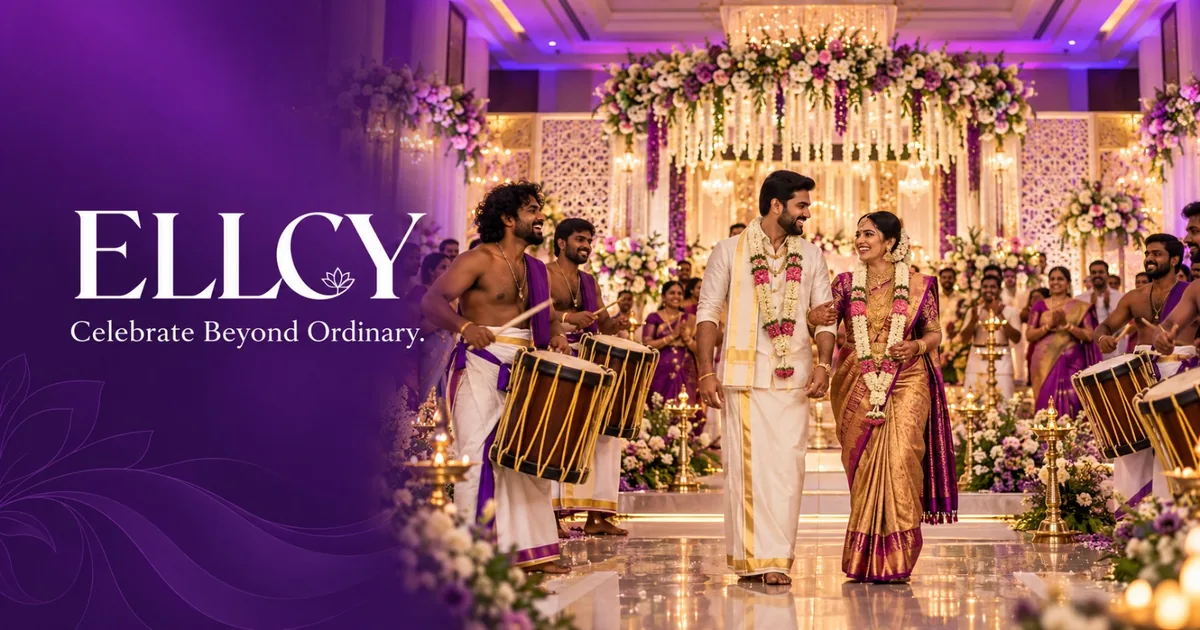
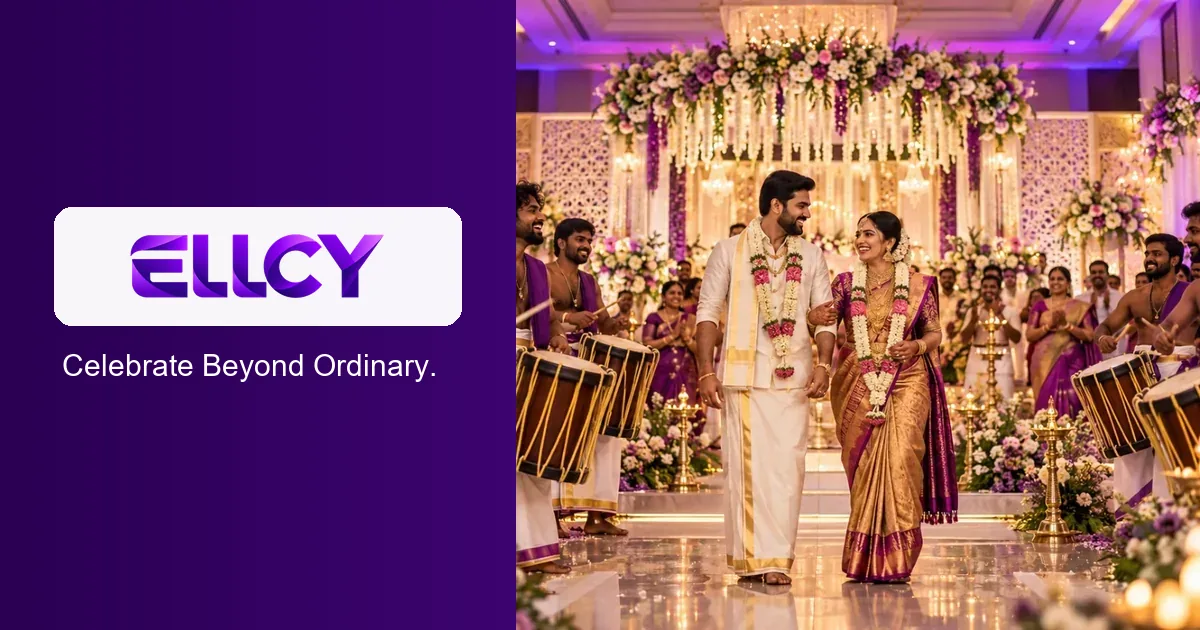
Refresh ELLCY brand and notify new bookings

diff --git a/public/css/brand.css b/public/css/brand.css
@@ -1,6 +1,26 @@
 /* Shared ELLCY brand treatment.
-   The supplied wordmark is kept as a real, cached image asset and applied
-   consistently to every customer-facing header and footer variant. */
+   The supplied gradient wordmark is kept as a real, cached image asset and
+   applied consistently to every customer-facing header and footer variant. */
+
+:root {
+  --primary: #7000e8;
+  --primary-dark: #350078;
+  --primary-light: #f4eaff;
+  --accent: #b820ef;
+  --accent-dark: #4b008f;
+  --brand-magenta: #d33cff;
+  --pri: #7000e8;
+  --pri-dark: #350078;
+  --pri-light: #f4eaff;
+  --pri-mid: #a72cf0;
+  --hdr-bg: #7000e8;
+  --hdr-dark: #350078;
+  --violet: #7000e8;
+}
+
+:where(.header,.new-header,.sd-dsk-hdr,.snk-dsk-hdr,.cm-desktop-hdr,.pd-dsk-hdr,.bnc-dsk-hdr) {
+  background: linear-gradient(105deg,#350078 0%,#7000e8 58%,#b820ef 100%) !important;
+}
 
 :where(
   header .logo,
@@ -12,28 +32,31 @@
   header a[aria-label="ELLCY Home"]
 ) {
   display: inline-block !important;
-  width: 100px !important;
-  min-width: 100px !important;
-  height: 28px !important;
-  padding: 0 !important;
+  width: 122px !important;
+  min-width: 122px !important;
+  height: 38px !important;
+  padding: 6px 9px !important;
+  border-radius: 8px !important;
   overflow: hidden !important;
   color: transparent !important;
   font-size: 0 !important;
   line-height: 0 !important;
   text-indent: -9999px !important;
-  background: url('../uploads/branding/ellcy-logo-white.png') left center / contain no-repeat !important;
+  background: #fff url('../uploads/branding/ellcy-logo-gradient.webp') center / calc(100% - 18px) auto no-repeat !important;
+  box-shadow: 0 4px 14px rgba(24,0,62,.18) !important;
 }
 
 .footer-logo {
   display: block !important;
-  width: 124px !important;
-  height: 34px !important;
+  width: 148px !important;
+  height: 44px !important;
   overflow: hidden !important;
   color: transparent !important;
   font-size: 0 !important;
   line-height: 0 !important;
   text-indent: -9999px !important;
-  background: url('../uploads/branding/ellcy-logo-white.png') left center / contain no-repeat !important;
+  border-radius: 8px !important;
+  background: #fff url('../uploads/branding/ellcy-logo-gradient.webp') center / calc(100% - 18px) auto no-repeat !important;
 }
 
 /* Authentication and account pages place the wordmark on white. */
@@ -47,7 +70,7 @@
   font-size: 0 !important;
   line-height: 0 !important;
   text-indent: -9999px !important;
-  background: url('../uploads/branding/ellcy-logo-violet.png') center / contain no-repeat !important;
+  background: url('../uploads/branding/ellcy-logo-gradient.webp') center / contain no-repeat !important;
 }
 
 .auth-logo {
@@ -58,7 +81,7 @@
 /* Brand-colour section titles replace the previous generic black headings. */
 #svc-heading,
 #evt-heading {
-  color: #6a1b9a !important;
+  color: #7000e8 !important;
 }
 
 /* Mobile header controls sit on the violet ribbon and must stay white. */
@@ -96,8 +119,25 @@
     header .bnc-logo,
     header a[aria-label="ELLCY Home"]
   ) {
-    width: 88px !important;
-    min-width: 88px !important;
-    height: 25px !important;
+    width: 101px !important;
+    min-width: 101px !important;
+    height: 34px !important;
+    padding: 5px 7px !important;
   }
+}
+
+@media (max-width: 768px) {
+  /* Inner pages keep the service/category title as their single mobile label;
+     the homepage still shows the full new ELLCY wordmark. */
+  .new-header .logo { display: none !important; }
+  .new-header .hdr-mobile-title { color: #fff !important; }
+}
+
+/* Keep common customer forms fluid on tablets and phones. */
+@media (max-width: 760px) {
+  .container { width: 100% !important; padding-inline: 14px !important; }
+  .bk-layout, .enquiry-layout, .quote-layout { grid-template-columns: minmax(0,1fr) !important; }
+  .bk-row-2, .form-row-2 { grid-template-columns: minmax(0,1fr) !important; }
+  .bk-page, .service-detail, .detail-wrap { max-width: 100% !important; overflow-x: clip !important; }
+  .bk-section-card { padding: 18px 15px !important; }
 }

diff --git a/public/css/style.css b/public/css/style.css
@@ -4,10 +4,10 @@
    ROOT TOKENS
    ════════════════════════════════════════════════════════════ */
 :root {
-  --primary:       #6a1b9a;
-  --primary-dark:  #4e0d7a;
-  --primary-light: #f4e9ff;
-  --accent:        #6b21a8;
+  --primary:       #7000e8;
+  --primary-dark:  #350078;
+  --primary-light: #f4eaff;
+  --accent:        #b820ef;
   --text:          #111;
   --text-light:    #666;
   --bg:            #fff;
@@ -40,7 +40,7 @@ button:focus-visible, a:focus-visible { outline:3px solid var(--primary); outlin
    ════════════════════════════════════════════════════════════ */
 .header {
   width:100%; height:var(--header-h);
-  background:var(--primary);
+  background:linear-gradient(105deg,var(--primary-dark) 0%,var(--primary) 58%,var(--accent) 100%);
   display:flex; align-items:center; justify-content:space-between;
   padding:0 24px; position:sticky; top:0; z-index:200;
   box-shadow:0 2px 0 rgba(0,0,0,.08);

diff --git a/pages/make-over-brochure.html b/pages/make-over-brochure.html
@@ -7,7 +7,7 @@
   <meta name="robots" content="index, follow"/>
   <meta name="referrer" content="strict-origin-when-cross-origin"/>
   <title>ELLCY | Make Over Brochure</title>
-  <link rel="icon" type="image/svg+xml" href="../uploads/branding/favicon.svg?v=20260922.1"/>
+  <link rel="icon" type="image/svg+xml" href="../uploads/branding/favicon.svg?v=20261016.1"/>
   <link rel="alternate icon" type="image/png" sizes="32x32" href="../uploads/branding/favicon-32.png"/>
   <link rel="stylesheet" href="../css/make-over-brochure.css?v=20260924.1"/>
   <script src="https://cdnjs.cloudflare.com/ajax/libs/font-awesome/6.5.0/js/all.min.js" defer></script>

diff --git a/public/css/header2.css b/public/css/header2.css
@@ -5,8 +5,8 @@
    ============================================================ */
 
 :root {
-  --hdr-bg:     #6b21a8;
-  --hdr-dark:   #4e0d7a;
+  --hdr-bg:     #7000e8;
+  --hdr-dark:   #350078;
   --hdr-h:      64px;
 }
 

diff --git a/app/helpers/BookingNotifier.php b/app/helpers/BookingNotifier.php
@@ -1,0 +1,47 @@
+<?php
+/** Server-side owner notification for a completed customer booking. */
+class BookingNotifier {
+    public static function send(array $booking): bool {
+        $escape = static fn(mixed $value): string => htmlspecialchars((string)$value, ENT_QUOTES | ENT_SUBSTITUTE, 'UTF-8');
+        $money = static fn(mixed $value): string => '₹' . number_format((float)$value, 0, '.', ',');
+        $items = is_array($booking['items'] ?? null) ? $booking['items'] : [];
+        $rows = '';
+        foreach ($items as $item) {
+            if (!is_array($item)) continue;
+            $title = $escape($item['title'] ?? 'Event service');
+            $qty = max(1, (int)($item['qty'] ?? 1));
+            $details = array_filter([
+                trim((string)($item['package'] ?? '')),
+                trim((string)($item['slot'] ?? '')),
+            ]);
+            $rows .= '<tr><td style="padding:10px;border-bottom:1px solid #eee"><strong>' . $title . '</strong>'
+                . ($details ? '<br><small>' . $escape(implode(' · ', $details)) . '</small>' : '')
+                . '</td><td style="padding:10px;border-bottom:1px solid #eee;text-align:center">' . $qty . '</td>'
+                . '<td style="padding:10px;border-bottom:1px solid #eee;text-align:right">' . $money(((float)($item['price'] ?? 0)) * $qty) . '</td></tr>';
+        }
+        if ($rows === '') $rows = '<tr><td colspan="3" style="padding:10px">Service details were not supplied.</td></tr>';
+
+        $reference = trim((string)($booking['order_ref'] ?? '')) ?: 'Pending reference';
+        $name = trim((string)($booking['name'] ?? 'Customer'));
+        $subject = 'New ELLCY Enquiry – ' . $reference . ' – ' . $name;
+        $field = static function (string $label, mixed $value) use ($escape): string {
+            $shown = trim((string)$value) !== '' ? $escape($value) : '—';
+            return '<tr><td style="padding:7px 10px;color:#6b6470;width:150px">' . $escape($label) . '</td><td style="padding:7px 10px;font-weight:600">' . $shown . '</td></tr>';
+        };
+        $html = '<!doctype html><html><body style="margin:0;background:#f5efff;font-family:Arial,sans-serif;color:#181120">'
+            . '<div style="max-width:680px;margin:24px auto;background:#fff;border-radius:14px;overflow:hidden;border:1px solid #eadcff">'
+            . '<div style="padding:22px 26px;background:linear-gradient(110deg,#350078,#7000e8,#b820ef);color:#fff"><h1 style="margin:0;font-size:24px">New ELLCY Enquiry</h1><p style="margin:7px 0 0">Booking reference: ' . $escape($reference) . '</p></div>'
+            . '<div style="padding:22px 26px"><table style="width:100%;border-collapse:collapse">'
+            . $field('Customer', $name) . $field('Mobile', $booking['phone'] ?? '') . $field('Email', $booking['email'] ?? '')
+            . $field('Event', $booking['event_type'] ?? '') . $field('Event date', $booking['event_date'] ?? '')
+            . $field('Preferred time', $booking['event_time'] ?? '') . $field('Venue', $booking['event_venue'] ?? '')
+            . $field('Guest count', $booking['guest_count'] ?? '') . $field('Notes', $booking['note'] ?? '') . '</table>'
+            . '<h2 style="font-size:18px;margin:22px 0 8px">Selected services</h2><table style="width:100%;border-collapse:collapse">'
+            . '<thead><tr style="background:#f4eaff"><th style="padding:9px;text-align:left">Service</th><th>Qty</th><th style="padding:9px;text-align:right">Amount</th></tr></thead><tbody>' . $rows . '</tbody></table>'
+            . '<p style="text-align:right;font-size:18px"><strong>Estimated total: ' . $money($booking['total'] ?? 0) . '</strong></p>'
+            . '<p style="color:#6b6470;font-size:13px">This notification was generated securely by the ELLCY booking form.</p></div></div></body></html>';
+
+        $replyTo = filter_var((string)($booking['email'] ?? ''), FILTER_VALIDATE_EMAIL) ? (string)$booking['email'] : null;
+        return Mailer::send(BOOKING_ENQUIRY_EMAIL, $subject, $html, $replyTo);
+    }
+}

diff --git a/app/helpers/Mailer.php b/app/helpers/Mailer.php
@@ -1,22 +1,48 @@
 <?php
 /**
  * ELLCY — Mailer Helper
- * Sends transactional emails (password reset, etc.) using PHP's
- * built-in mail(). Most shared PHP hosts (cPanel, etc.) have this
- * wired to a local MTA out of the box. If your host requires SMTP
- * (many do, for deliverability), swap the body of send() for an
- * SMTP client such as PHPMailer — the calling code in
- * AuthController does not need to change either way.
+ * Sends transactional emails through Resend on serverless production and
+ * falls back to PHP mail() for traditional PHP hosting/local development.
  */
 class Mailer {
-    public static function send(string $to, string $subject, string $htmlBody): bool {
-        $from = defined('MAIL_FROM') ? MAIL_FROM : ('no-reply@' . self::domain());
+    public static function send(string $to, string $subject, string $htmlBody, ?string $replyTo = null): bool {
+        $from = (string)(getenv('RESEND_FROM') ?: (defined('MAIL_FROM') ? MAIL_FROM : ('no-reply@' . self::domain())));
         $fromName = defined('MAIL_FROM_NAME') ? MAIL_FROM_NAME : 'ELLCY';
+        $subject = str_replace(["\r", "\n"], ' ', $subject);
+        $replyTo = $replyTo && filter_var($replyTo, FILTER_VALIDATE_EMAIL) ? $replyTo : null;
+
+        $apiKey = trim((string)(getenv('RESEND_API_KEY') ?: ''));
+        if ($apiKey !== '' && function_exists('curl_init')) {
+            $payload = [
+                'from' => $fromName . ' <' . $from . '>',
+                'to' => [$to],
+                'subject' => $subject,
+                'html' => $htmlBody,
+            ];
+            if ($replyTo !== null) $payload['reply_to'] = $replyTo;
+            $curl = curl_init('https://api.resend.com/emails');
+            curl_setopt_array($curl, [
+                CURLOPT_POST => true,
+                CURLOPT_RETURNTRANSFER => true,
+                CURLOPT_TIMEOUT => 12,
+                CURLOPT_HTTPHEADER => [
+                    'Authorization: Bearer ' . $apiKey,
+                    'Content-Type: application/json',
+                ],
+                CURLOPT_POSTFIELDS => json_encode($payload, JSON_UNESCAPED_SLASHES | JSON_UNESCAPED_UNICODE),
+            ]);
+            $response = curl_exec($curl);
+            $status = (int)curl_getinfo($curl, CURLINFO_HTTP_CODE);
+            curl_close($curl);
+            $ok = $response !== false && $status >= 200 && $status < 300;
+            if (!$ok) error_log('[Mailer] Resend rejected "' . $subject . '" with HTTP ' . $status);
+            return $ok;
+        }
 
         $headers  = "MIME-Version: 1.0\r\n";
         $headers .= "Content-Type: text/html; charset=UTF-8\r\n";
         $headers .= 'From: ' . $fromName . ' <' . $from . ">\r\n";
-        $headers .= 'Reply-To: ' . $from . "\r\n";
+        $headers .= 'Reply-To: ' . ($replyTo ?? $from) . "\r\n";
 
         try {
             $ok = @mail($to, $subject, $htmlBody, $headers);

diff --git a/app/helpers/LegacyPage.php b/app/helpers/LegacyPage.php
@@ -199,7 +199,7 @@ final class LegacyPage
             $assetPattern = preg_quote($assetName, '/');
             $html = preg_replace_callback(
                 '/(?<url>[^"\']*\/' . $assetPattern . ')(?:\?[^"\']*)?/i',
-                static fn(array $match): string => $match['url'] . '?v=20261015.3',
+                static fn(array $match): string => $match['url'] . '?v=20261016.1',
                 $html
             ) ?? $html;
         }
@@ -224,12 +224,12 @@ final class LegacyPage
         /* Replace the historical text-only wordmark on every routed legacy
            page without editing hundreds of archived templates individually. */
         if (!preg_match('/\/brand\.css(?:\?[^"\']*)?["\']/i', $html)) {
-            $brandCss = '<link rel="stylesheet" href="' . Security::e(PUBLIC_URL . '/css/brand.css?v=20260908.5') . '"/>';
+            $brandCss = '<link rel="stylesheet" href="' . Security::e(PUBLIC_URL . '/css/brand.css?v=20261016.1') . '"/>';
             $html = preg_replace('/<\/head>/i', $brandCss . '</head>', $html, 1) ?? $html;
         }
 
         if (!preg_match('/favicon\.svg/i', $html)) {
-            $favicons = '<link rel="icon" type="image/svg+xml" href="' . Security::e(PUBLIC_URL . '/uploads/branding/favicon.svg?v=20260922.1') . '"/>'
+            $favicons = '<link rel="icon" type="image/svg+xml" href="' . Security::e(PUBLIC_URL . '/uploads/branding/favicon.svg?v=20261016.1') . '"/>'
                 . '<link rel="alternate icon" type="image/png" sizes="32x32" href="' . Security::e(PUBLIC_URL . '/uploads/branding/favicon-32.png') . '"/>'
                 . '<link rel="apple-touch-icon" sizes="180x180" href="' . Security::e(PUBLIC_URL . '/uploads/branding/apple-touch-icon.png') . '"/>';
             $html = preg_replace('/<\/head>/i', $favicons . '</head>', $html, 1) ?? $html;

diff --git a/app/views/layouts/header.php b/app/views/layouts/header.php
@@ -34,15 +34,15 @@
   <meta name="twitter:image" content="<?= Security::e($socialImage) ?>"/>
   <?php endif; ?>
   <title><?= Security::e($page_title ?? 'ELLCY | Event Services') ?></title>
-  <link rel="icon" type="image/svg+xml" href="<?= PUBLIC_URL ?>/uploads/branding/favicon.svg?v=20260922.1"/>
+  <link rel="icon" type="image/svg+xml" href="<?= PUBLIC_URL ?>/uploads/branding/favicon.svg?v=20261016.1"/>
   <link rel="alternate icon" type="image/png" sizes="32x32" href="<?= PUBLIC_URL ?>/uploads/branding/favicon-32.png"/>
   <link rel="apple-touch-icon" sizes="180x180" href="<?= PUBLIC_URL ?>/uploads/branding/apple-touch-icon.png"/>
   <?php if (!empty($preload_image)): ?>
   <link rel="preload" as="image" href="<?= Security::e($preload_image) ?>" type="image/webp" fetchpriority="high"/>
   <?php endif; ?>
-  <link rel="stylesheet" href="<?= PUBLIC_URL ?>/css/style.css?v=20261015.3"/>
+  <link rel="stylesheet" href="<?= PUBLIC_URL ?>/css/style.css?v=20261016.1"/>
   <link rel="stylesheet" href="<?= PUBLIC_URL ?>/css/cart.css?v=20261014.2"/>
-  <link rel="stylesheet" href="<?= PUBLIC_URL ?>/css/brand.css?v=20260908.5"/>
+  <link rel="stylesheet" href="<?= PUBLIC_URL ?>/css/brand.css?v=20261016.1"/>
   <?php if (!empty($extra_css)): ?>
     <?php foreach ((array)$extra_css as $css): ?>
     <link rel="stylesheet" href="<?= PUBLIC_URL ?>/css/<?= Security::e($css) ?>"/>

diff --git a/app/views/public/service_detail.php b/app/views/public/service_detail.php
@@ -411,10 +411,10 @@ $canonicalUrl = $base . '/services/' . trim($serviceRoute, '/') . '/';
   <link rel="stylesheet" href="<?= $e(PUBLIC_URL) ?>/css/media-gallery.css?v=20260831.1"/>
   <link rel="stylesheet" href="<?= $e(PUBLIC_URL) ?>/css/detail-single-media.css?v=20260831.1"/>
   <link rel="stylesheet" href="<?= $e(PUBLIC_URL) ?>/css/cart.css?v=20261014.2"/>
-  <link rel="icon" type="image/svg+xml" href="<?= $e(PUBLIC_URL) ?>/uploads/branding/favicon.svg?v=20260922.1"/>
+  <link rel="icon" type="image/svg+xml" href="<?= $e(PUBLIC_URL) ?>/uploads/branding/favicon.svg?v=20261016.1"/>
   <link rel="alternate icon" type="image/png" sizes="32x32" href="<?= $e(PUBLIC_URL) ?>/uploads/branding/favicon-32.png"/>
   <link rel="apple-touch-icon" sizes="180x180" href="<?= $e(PUBLIC_URL) ?>/uploads/branding/apple-touch-icon.png"/>
-  <link rel="stylesheet" href="<?= $e(PUBLIC_URL) ?>/css/brand.css?v=20260908.5"/>
+  <link rel="stylesheet" href="<?= $e(PUBLIC_URL) ?>/css/brand.css?v=20261016.1"/>
   <link rel="stylesheet" href="https://cdnjs.cloudflare.com/ajax/libs/font-awesome/6.5.0/css/all.min.css"/>
 </head>
 <body class="sd-body <?= $portfolio ? 'photo-detail-page' : '' ?> <?= !empty($cfg['catalogCards']) ? 'catalog-card-detail-page' : '' ?> <?= $isMakeOver ? 'make-over-detail-page' : '' ?>">

diff --git a/app/views/pages/account.php b/app/views/pages/account.php
@@ -5,12 +5,12 @@
   <meta name="viewport" content="width=device-width,initial-scale=1"/>
   <meta name="robots" content="noindex, nofollow"/>
   <title>ELLCY | My Account</title>
-  <link rel="icon" type="image/svg+xml" href="<?= htmlspecialchars(PUBLIC_URL) ?>/uploads/branding/favicon.svg?v=20260922.1"/>
+  <link rel="icon" type="image/svg+xml" href="<?= htmlspecialchars(PUBLIC_URL) ?>/uploads/branding/favicon.svg?v=20261016.1"/>
   <link rel="alternate icon" type="image/png" sizes="32x32" href="<?= htmlspecialchars(PUBLIC_URL) ?>/uploads/branding/favicon-32.png"/>
   <link rel="apple-touch-icon" sizes="180x180" href="<?= htmlspecialchars(PUBLIC_URL) ?>/uploads/branding/apple-touch-icon.png"/>
   <link rel="stylesheet" href="<?= htmlspecialchars(APP_BASE) ?>/css/style.css"/>
   <link rel="stylesheet" href="<?= htmlspecialchars(APP_BASE) ?>/css/cart.css"/>
-  <link rel="stylesheet" href="<?= htmlspecialchars(PUBLIC_URL) ?>/css/brand.css?v=20260908.5"/>
+  <link rel="stylesheet" href="<?= htmlspecialchars(PUBLIC_URL) ?>/css/brand.css?v=20261016.1"/>
   <script src="https://cdnjs.cloudflare.com/ajax/libs/font-awesome/6.5.0/js/all.min.js" defer></script>
   <style>
     body{background:#f8f6fb;font-family:'Segoe UI',system-ui,sans-serif;margin:0;color:#1a1a2e}

diff --git a/app/views/pages/forgot-password.php b/app/views/pages/forgot-password.php
@@ -5,11 +5,11 @@
   <meta name="viewport" content="width=device-width,initial-scale=1"/>
   <meta name="robots" content="noindex, nofollow"/>
   <title>ELLCY | Forgot Password</title>
-  <link rel="icon" type="image/svg+xml" href="<?= htmlspecialchars(PUBLIC_URL) ?>/uploads/branding/favicon.svg?v=20260922.1"/>
+  <link rel="icon" type="image/svg+xml" href="<?= htmlspecialchars(PUBLIC_URL) ?>/uploads/branding/favicon.svg?v=20261016.1"/>
   <link rel="alternate icon" type="image/png" sizes="32x32" href="<?= htmlspecialchars(PUBLIC_URL) ?>/uploads/branding/favicon-32.png"/>
   <link rel="apple-touch-icon" sizes="180x180" href="<?= htmlspecialchars(PUBLIC_URL) ?>/uploads/branding/apple-touch-icon.png"/>
   <link rel="stylesheet" href="<?= htmlspecialchars(APP_BASE) ?>/css/style.css"/>
-  <link rel="stylesheet" href="<?= htmlspecialchars(PUBLIC_URL) ?>/css/brand.css?v=20260908.5"/>
+  <link rel="stylesheet" href="<?= htmlspecialchars(PUBLIC_URL) ?>/css/brand.css?v=20261016.1"/>
   <script src="https://cdnjs.cloudflare.com/ajax/libs/font-awesome/6.5.0/js/all.min.js" defer></script>
   <style>
     body{background:#f4e9ff;min-height:100vh;display:flex;align-items:center;justify-content:center;padding:20px;font-family:'Segoe UI',system-ui,sans-serif;margin:0}

diff --git a/app/views/pages/register.php b/app/views/pages/register.php
@@ -5,11 +5,11 @@
   <meta name="viewport" content="width=device-width,initial-scale=1"/>
   <meta name="robots" content="noindex, nofollow"/>
   <title>ELLCY | Create Account</title>
-  <link rel="icon" type="image/svg+xml" href="<?= htmlspecialchars(PUBLIC_URL) ?>/uploads/branding/favicon.svg?v=20260922.1"/>
+  <link rel="icon" type="image/svg+xml" href="<?= htmlspecialchars(PUBLIC_URL) ?>/uploads/branding/favicon.svg?v=20261016.1"/>
   <link rel="alternate icon" type="image/png" sizes="32x32" href="<?= htmlspecialchars(PUBLIC_URL) ?>/uploads/branding/favicon-32.png"/>
   <link rel="apple-touch-icon" sizes="180x180" href="<?= htmlspecialchars(PUBLIC_URL) ?>/uploads/branding/apple-touch-icon.png"/>
   <link rel="stylesheet" href="<?= htmlspecialchars(APP_BASE) ?>/css/style.css"/>
-  <link rel="stylesheet" href="<?= htmlspecialchars(PUBLIC_URL) ?>/css/brand.css?v=20260908.5"/>
+  <link rel="stylesheet" href="<?= htmlspecialchars(PUBLIC_URL) ?>/css/brand.css?v=20261016.1"/>
   <script src="https://cdnjs.cloudflare.com/ajax/libs/font-awesome/6.5.0/js/all.min.js" defer></script>
   <style>
     body{background:#f4e9ff;min-height:100vh;display:flex;align-items:center;justify-content:center;padding:20px;font-family:'Segoe UI',system-ui,sans-serif;margin:0}
